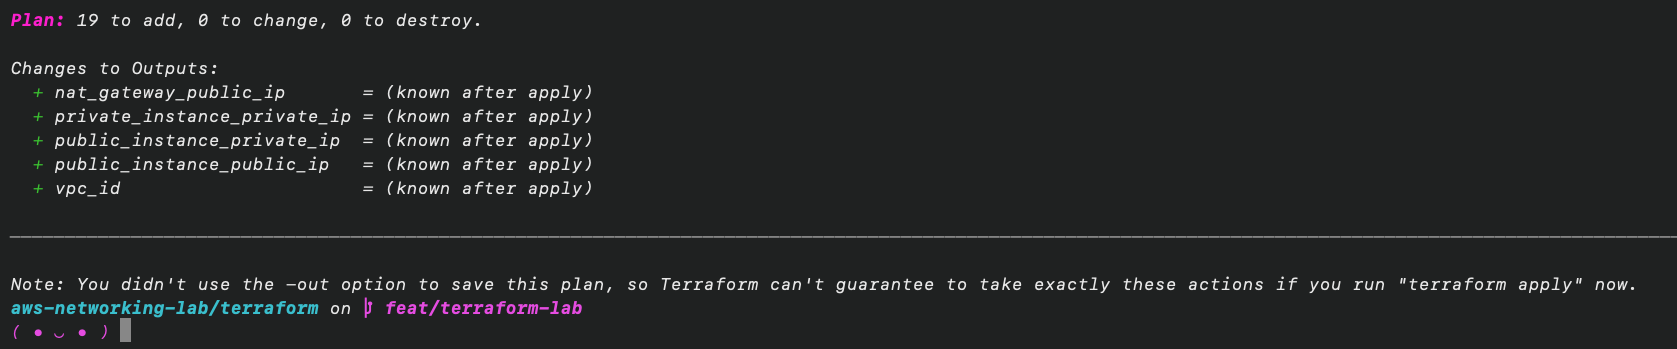
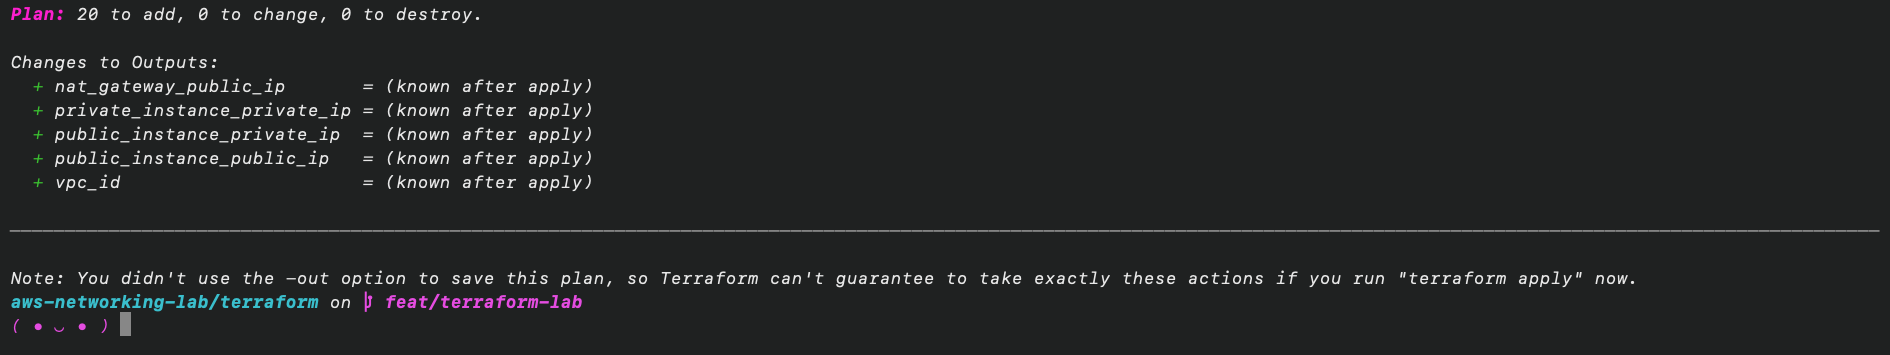
docs: refresh Terraform plan screenshot

diff --git a/project-record/PROJECT-RECORD.md b/project-record/PROJECT-RECORD.md
@@ -43,4 +43,4 @@ The `terraform.tfvars` file in the listing holds local values and is ignored by 
 
 ![Terraform plan summary](screenshots/terraform-plan-summary.png)
 
-The end of the plan output shows the total of 19 resources to add. Nothing exists in AWS yet, because the plan was not applied.
+The end of the plan output shows the total of 20 resources to add. Nothing exists in AWS yet, because the plan was not applied.
